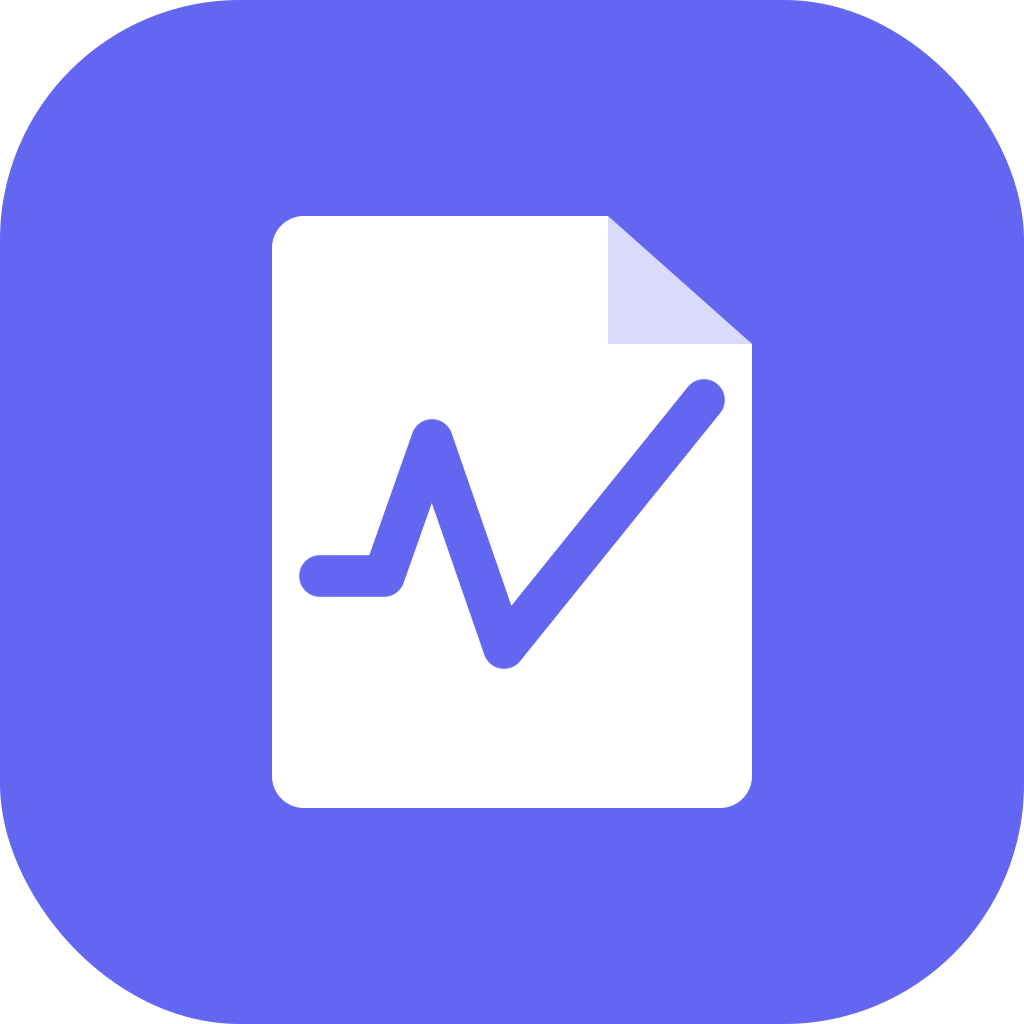
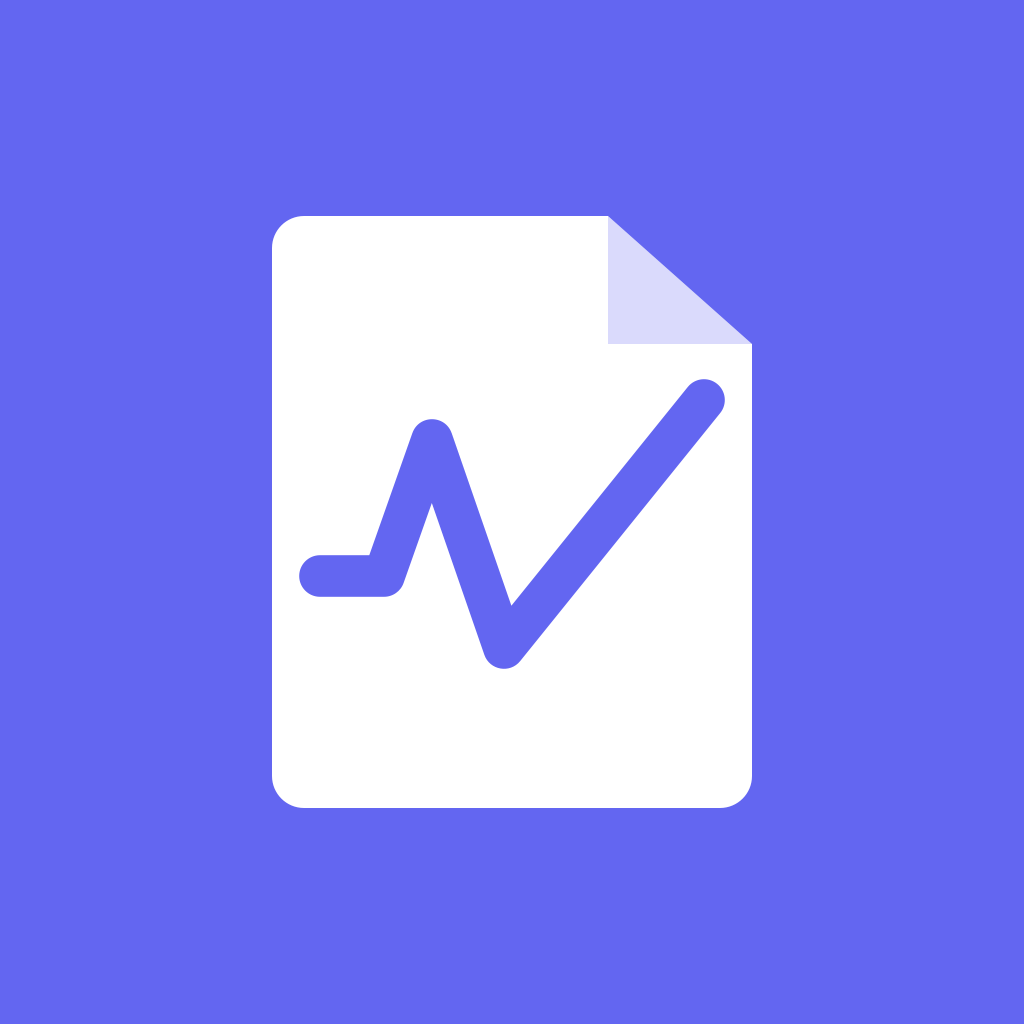
feat(branding): ícono de iOS claro, oscuro y teñido
- ios.icon con las tres variantes de iOS 18+, hechas desde los trazos
  de LogoMark (fuentes en assets/icon-src/). La oscura va sobre fondo
  transparente y la teñida es el documento con la línea y el doblez
  calados, para que el sistema lo pinte del color elegido.
- icon.png pasa a ser el cuadrado a sangre completa, sin alfa y sin
  esquinas dibujadas: antes traía las esquinas redondeadas sobre blanco.

diff --git a/specs/builds-nativos/design.md b/specs/builds-nativos/design.md
@@ -61,3 +61,12 @@ Ahora las tres capas salen de los trazos de `LogoMark` (`src/components/LogoMark
 - **Frente** (`android-icon-foreground.png`): el documento blanco, el doblez con el acento al 24 % y la línea de tendencia en el acento.
 - **Fondo** (`android-icon-background.png`): el acento `#6366f1` liso.
 - **Monocroma** (`android-icon-monochrome.png`): el documento relleno, con la línea de tendencia (trazo de 3) y el doblez calados. El sistema la pinta con los colores del tema.
+
+## Ícono de iOS: claro, oscuro y teñido (12 nov 2026)
+
+`ios.icon` en `app.json` declara las tres variantes de iOS 18 o superior. Salen de los mismos trazos de `LogoMark`, con fuentes en `assets/icon-src/ios-*.svg`:
+- **Clara:** fondo de acento a sangre completa, sin alfa y sin esquinas dibujadas; la máscara la pone iOS. Antes las esquinas redondeadas venían dibujadas sobre blanco.
+- **Oscura:** el documento con su acento sobre fondo transparente; iOS pone el fondo oscuro.
+- **Teñida:** el documento en blanco con la línea de tendencia y el doblez calados; iOS lo pinta con el color que elija la persona.
+
+`expo prebuild --platform ios` genera el `AppIcon.appiconset` con las tres variantes (`luminosity` `dark` y `tinted`), y `CFBundleDisplayName` queda en "Logday". Falta verlo en un iPhone: el build de iOS necesita la cuenta de Apple Developer, y la publicación va primero en Android.

diff --git a/specs/branding/design.md b/specs/branding/design.md
@@ -13,7 +13,8 @@ asset de `task-manager`:
 
 | Archivo | Origen | Nota |
 |---|---|---|
-| `assets/icon.png` | `icon_square.png` aplanado sobre blanco | iOS rechaza íconos con canal alfa — se aplanó, ya no es transparente en las esquinas |
+| `assets/icon.png` | igual a `ios-icon-light.png` (12 nov 2026) | Cuadrado a sangre completa, sin alfa y sin esquinas dibujadas: la máscara la pone el sistema. Antes era `icon_square.png` aplanado sobre blanco, que dejaba esquinas blancas |
+| `assets/ios-icon-{light,dark,tinted}.png` | trazos de `LogoMark` (fuentes en `assets/icon-src/`) | Variantes de iOS 18+ en `ios.icon`. La oscura va sobre fondo transparente (el sistema pone el oscuro) y la teñida es el documento en blanco con la línea y el doblez calados |
 | `assets/favicon.png` | mismo aplanado, redimensionado a 48×48 | |
 | `assets/android-icon-foreground.png` | `icon_square_wiout_background.png` tal cual | Android aplica su propia máscara, no hace falta aplanar |
 | `assets/android-icon-background.png` | generado: `#6366f1` sólido, 1024×1024 | color de acento de marca (`light.accent`/`dark.accentStrong`) |

diff --git a/specs/builds-nativos/tasks.md b/specs/builds-nativos/tasks.md
@@ -18,5 +18,7 @@
 - [x] Nombre bajo el ícono: "Logday" (Jorge, 12 nov 2026). "Logday Mobile" se cortaba como "Logday Mob…".
 - [x] Ícono de Android dentro de la zona segura y capa monocroma con la línea de tendencia, para los íconos temáticos.
 - [ ] Ver el ícono temático en un build.
+- [x] Íconos claro, oscuro y teñido de iOS en `ios.icon`, revisados en el catálogo que genera `expo prebuild`.
+- [ ] Verlos en un iPhone (necesita el build de iOS).
 - [ ] Decidir HTTP sin cifrar (ver requirements).
 - [ ] Build `production` (AAB) y subida a la prueba interna de Play (con OK de Jorge).
